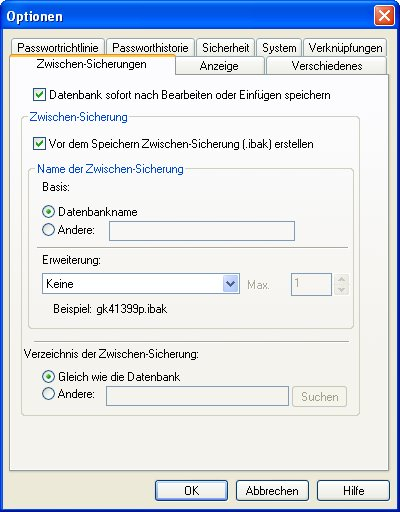
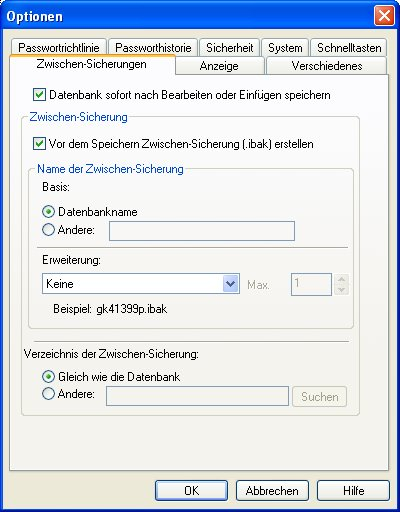
last details for German help file (Verknüpfung -> Schnelltaste)

diff --git a/help/pwsafeDE/html/password_history_tab.html b/help/pwsafeDE/html/password_history_tab.html
@@ -13,7 +13,7 @@
 <h2>Passworthistorie</h2>
 <img alt="Reiter Passworthistorie" src="images/options/password_history_tab.jpg"><br>
 <br>
-Wenn Sie das Passwort eines Eintrages &auml;ndern, kann <b>Password Safe</b> die alten Passw&ouml;rter, die zu diesem Eintrag geh&ouml;ren, abspeichern. Dies ist dann z.B. n&uuml;tzlich, wenn die &Auml;nderung des Passwortes nicht das erhoffte Ergebnis gebracht hat in der Anwendung, in dem das Passwort eingesetzt wurde. Auch kann festgelegt werden wie viele Passw&ouml;rter f&uuml;r einen neuen Eintrag standardm&auml;&szlig;ig gespeichert werden sollen. Dies kann allerdings f&uuml;r einen bestimmten Eintrag wieder aufgehoben werden im Dialog "Eintrag bearbeiten" oder "Eintrag einf&uuml;gen".
+Im Reiter <b>Passworthistorie</b> werden die Regeln, wie die Historie der Eintr&auml;ge in <b>Password Safe</b> festgehalten wird, beschrieben.<br>Wenn Sie das Passwort eines Eintrages &auml;ndern, kann <b>Password Safe</b> die alten Passw&ouml;rter, die zu diesem Eintrag geh&ouml;ren, abspeichern. Dies ist dann z.B. n&uuml;tzlich, wenn die &Auml;nderung des Passwortes nicht das erhoffte Ergebnis gebracht hat in der Anwendung, in dem das Passwort eingesetzt wurde. Auch kann festgelegt werden wie viele Passw&ouml;rter f&uuml;r einen neuen Eintrag standardm&auml;&szlig;ig gespeichert werden sollen. Dies kann allerdings f&uuml;r einen bestimmten Eintrag wieder aufgehoben werden im Dialog "Eintrag bearbeiten" oder "Eintrag einf&uuml;gen".
 <h3>Speichere <i>N</i> bisherige Passw&ouml;rter pro Eintrag</h3>
 Wenn Sie dies markieren, und die Anzahl festlegen, definieren Sie hiermit den <i>standardm&auml;&szlig;igen</i> Wert wie viele Passw&ouml;rter festgehalten werden f&uuml;r jeden neuen Eintrag.
 <h3>Verwalte Passworthistorie der aktuellen Eintr&auml;ge</h3>

diff --git a/help/pwsafeDE/html/password_history.html b/help/pwsafeDE/html/password_history.html
@@ -11,7 +11,7 @@
 <object id="popup" type="application/x-oleobject" classid="clsid:adb880a6-d8ff-11cf-9377-00aa003b7a11"> </object>
 <!-- Popup Source File -->
 <h2>Passworthistorie</h2>
-Mit <b>Password Safe</b> k&ouml;nnen Sie die letzten paar Passw&ouml;rter eines Eintrages zusammen mit dem Datum festhalten, an welchem die Passw&ouml;rter gesetzt wurden. Dies ist n&uuml;tzlich, um eine &Uuml;bereinstimmung des Passwortes mit den an einigen Stellen eingesetzten Passwortrichtlinien nachzuweisen, oder um ein Passwort auf eine &auml;ltere Version zur&uuml;ckzuschalten, wenn das neue Passwort (warum auch immer) nicht funktioniert. Die Passworthistorie kann mit der Taste "Passworthistorie" im Fensterdialog <a href="entering_pwd.html">Eintrag bearbeiten</a> erreicht werden.<br><br>
+<br>In <b>Password Safe</b> k&ouml;nnen Sie die letzten paar Passw&ouml;rter eines Eintrages zusammen mit dem Datum festhalten, an welchem die Passw&ouml;rter gesetzt wurden. Dies ist n&uuml;tzlich, um eine &Uuml;bereinstimmung des Passwortes mit den an einigen Stellen eingesetzten Passwortrichtlinien nachzuweisen, oder um ein Passwort auf eine &auml;ltere Version zur&uuml;ckzuschalten, wenn das neue Passwort (warum auch immer) nicht funktioniert. Die Passworthistorie kann mit der Taste "Passworthistorie" im Fensterdialog <a href="entering_pwd.html">Eintrag bearbeiten</a> erreicht werden.<br><br>
 <img alt="Passworthistorie" src="images/password_history.jpg">
 <p>Dieser Dialog stellt die letzten paar Passw&ouml;rter f&uuml;r den jeweiligen Eintrag da. Um dies anzuzeigen dr&uuml;cken Sie auf die Taste "Passworthistorie" im Eintrag bearbeiten/Einf&uuml;gen Dialog. Folgendes kann gemacht werden:</p>
 <h3>Die <i>N</i> letzten Passw&ouml;rter behalten</h3>

diff --git a/help/pwsafeDE/html/security_tab.html b/help/pwsafeDE/html/security_tab.html
@@ -12,7 +12,7 @@
 <!-- Popup Source File -->
 <h2>Sicherheit</h2>
 <img alt="Reiter Sicherheit" src="images/options/security_tab.jpg">
-<p>Im Reiter Sicherheit werden die sicherheitsrelevanten Einstellungen vorgenommen. Eine einfache Handhabung und die Sicherheit der Anwendung werden von den aufgelisteten Optionen beeinflusst. Die Sicherheit der verschl&uuml;sselten Datenbank hingegen ist keineswegs betroffen.</p>
+<p>Im Reiter <b>Sicherheit</b> werden die sicherheitsrelevanten Einstellungen vorgenommen. Eine einfache Handhabung und die Sicherheit der Anwendung werden von den aufgelisteten Optionen beeinflusst. Die Sicherheit der verschl&uuml;sselten Datenbank hingegen ist keineswegs betroffen.</p>
 <div class="instr">
 <h3>Zwischenablage nach Minimieren l&ouml;schen</h3>
 <p>Wenn  markiert, wird die Anwendung, wenn sie minimiert wird, in der Zwischenablage alle gespeicherten Informationen l&ouml;schen (z.B. das Passwort). Dies verhindert dass jemand anderes oder eine andere Anwendung den Inhalt der Zwischenablage lesen kann. Beachten Sie, dass das Markieren dieser Option zusammen mit der Doppelklick-Aktion "Passwort in die Zwischenablage kopieren, minimieren" im Reiter <a href="misc_tab.html">Verschiedenes</a> zu unerwartete Ergebnisse f&uuml;hren kann (das Passwort wird kopiert, aber anschlie&szlig;end gleich wieder gel&ouml;scht).</p>

diff --git a/help/pwsafeDE/html/manage_menu.html b/help/pwsafeDE/html/manage_menu.html
@@ -34,7 +34,7 @@
 <a href="password_policies.html">Passwortrichtlinie</a><br>
 <a href="password_history_tab.html">Passworthistorie</a><br>
 <a href="misc_tab.html">Verschiedenes</a><br>
-<a href="shortcuts_tab.html">Verkn&uuml;pfungen</a><br>
+<a href="shortcuts_tab.html">Schnelltasten</a><br>
 <hr><b>Hinweis:</b><br>
 <small>Viele dieser Einstellungen werden als <i>Voreinstellungen</i> abgespeichert, wie <a href="preferences.html">hier</a>  beschrieben.</small>
 			</div>
@@ -54,7 +54,7 @@ W&auml;hlen Sie die Symbole aus die dargestellt werden sollen oder nicht in der 
 			<param name="Keyword" value="Reiter Passworthistorie">
 			<param name="Keyword" value="Reiter Zwischen-Sicherungen">
 			<param name="Keyword" value="Reiter System">
-			<param name="Keyword" value="Reiter Verkn&uuml;pfungen">
+			<param name="Keyword" value="Reiter Schnelltasten">
 			<param name="Keyword" value="&Auml;ndern vom Master-Passwort">
 		</object>
 </body>

diff --git a/help/pwsafeDE/html/credits.html b/help/pwsafeDE/html/credits.html
@@ -27,7 +27,7 @@
   <li><a target="newWin" href="https://sourceforge.net/forum/forum.php?forum_id=134801">Password Safe Forum</a>: Ein Forum f&uuml;r Fragen, Unterst&uuml;tzung und Probleme.</li>
   <li><a target="newWin" href="https://sourceforge.net/export/rss2_project.php?group_id=41019">Password Safe News</a>: RSS feeds verf&uuml;gbar f&uuml;r dieses Projekt.</li>
   <li>
-			Seite f&uuml;r die Mailingliste von <b>Password Safe</b>, niedriges Aufkommen (ungef&auml;hr eine Meldung pro Monat oder so), spam freie <a target="newWin" href="https://sourceforge.net/mail/?group_id=41019">Seite f&uuml;r Ank&uuml;ndigungen und Mailingliste</a>.</li>
+			Seite f&uuml;r die Mailingliste von <b>Password Safe</b>, niedriges Aufkommen (ungef&auml;hr eine Meldung pro Monat oder so), Spam freie <a target="newWin" href="https://sourceforge.net/mail/?group_id=41019">Seite f&uuml;r Ank&uuml;ndigungen und Mailingliste</a>.</li>
 </ul>
 <br>
 		</div>

diff --git a/help/pwsafeDE/html/backups_tab.html b/help/pwsafeDE/html/backups_tab.html
@@ -12,7 +12,7 @@
 <!-- Popup Source File -->
 <h2>Zwischen-Sicherungen</h2>
 <img alt="Reiter Zwischen-Sicherungen" src="images/options/backups_tab.jpg">
-<p>Im Reiter Zwischen-Sicherungen k&ouml;nnen Sie die Vorgehensweise konfigurieren, wie automatische Sicherungen erstellt und verwaltet werden.</p>
+<p>Im Reiter <b>Zwischen-Sicherungen</b> k&ouml;nnen Sie die Vorgehensweise konfigurieren, wie automatische Sicherungen erstellt und verwaltet werden.</p>
 <div class="instr">
 <h3>Datenbank sofort nach Bearbeiten oder Einf&uuml;gen speichern</h3>
 <p>Wenn markiert, speichert <b>Password Safe</b> alle &Auml;nderungen in einem Passworteintrag sofort ab, ohne abzuwarten, ob der Benutzer <b>Speichern</b> oder <b>Speichern unter</b> bet&auml;tigt.</p>

diff --git a/help/pwsafeDE/html/system_tab.html b/help/pwsafeDE/html/system_tab.html
@@ -12,7 +12,7 @@
 <!-- Popup Source File -->
 <h2>System</h2>
 <img alt="Reiter System" src="images/options/system_tab.jpg">
-<p>Der Reiter System gibt Zugriff auf die Einstellungen die <b>Password Safe</b> ben&ouml;tigt f&uuml;r das System worauf es l&auml;uft.</p>
+<p>Der Reiter <b>System</b> gibt Zugriff auf die Einstellungen die <b>Password Safe</b> ben&ouml;tigt f&uuml;r das System worauf es l&auml;uft.</p>
 <div class="instr">
 <h3>Symbol im Infobereich</h3>
 <p>Wenn markiert, wird <b>Password Safe</b> minimiert im Infobereich gestartet.<br>Wenn nicht markiert, startet das Programm minimiert in der Taskleiste.</p>

diff --git a/help/pwsafeDE/html/display_tab.html b/help/pwsafeDE/html/display_tab.html
@@ -11,7 +11,7 @@
 <object id="popup" type="application/x-oleobject" classid="clsid:adb880a6-d8ff-11cf-9377-00aa003b7a11"> </object>
 <!-- Popup Source File -->
 <h2>Anzeige</h2>
-<img src="images/options/display_tab.jpg" alt="Reiter Anzeige">
+<img src="images/options/display_tab.jpg" alt="Reiter Anzeige"><br>
 <br>Die Funktionen im Reiter <b>Anzeige</b> steuern wie welche Elemente in <b>Password Safe</b> angezeigt werden.
 <div class="instr">
 <h3>Password Safe immer im Vordergrund</h3>
